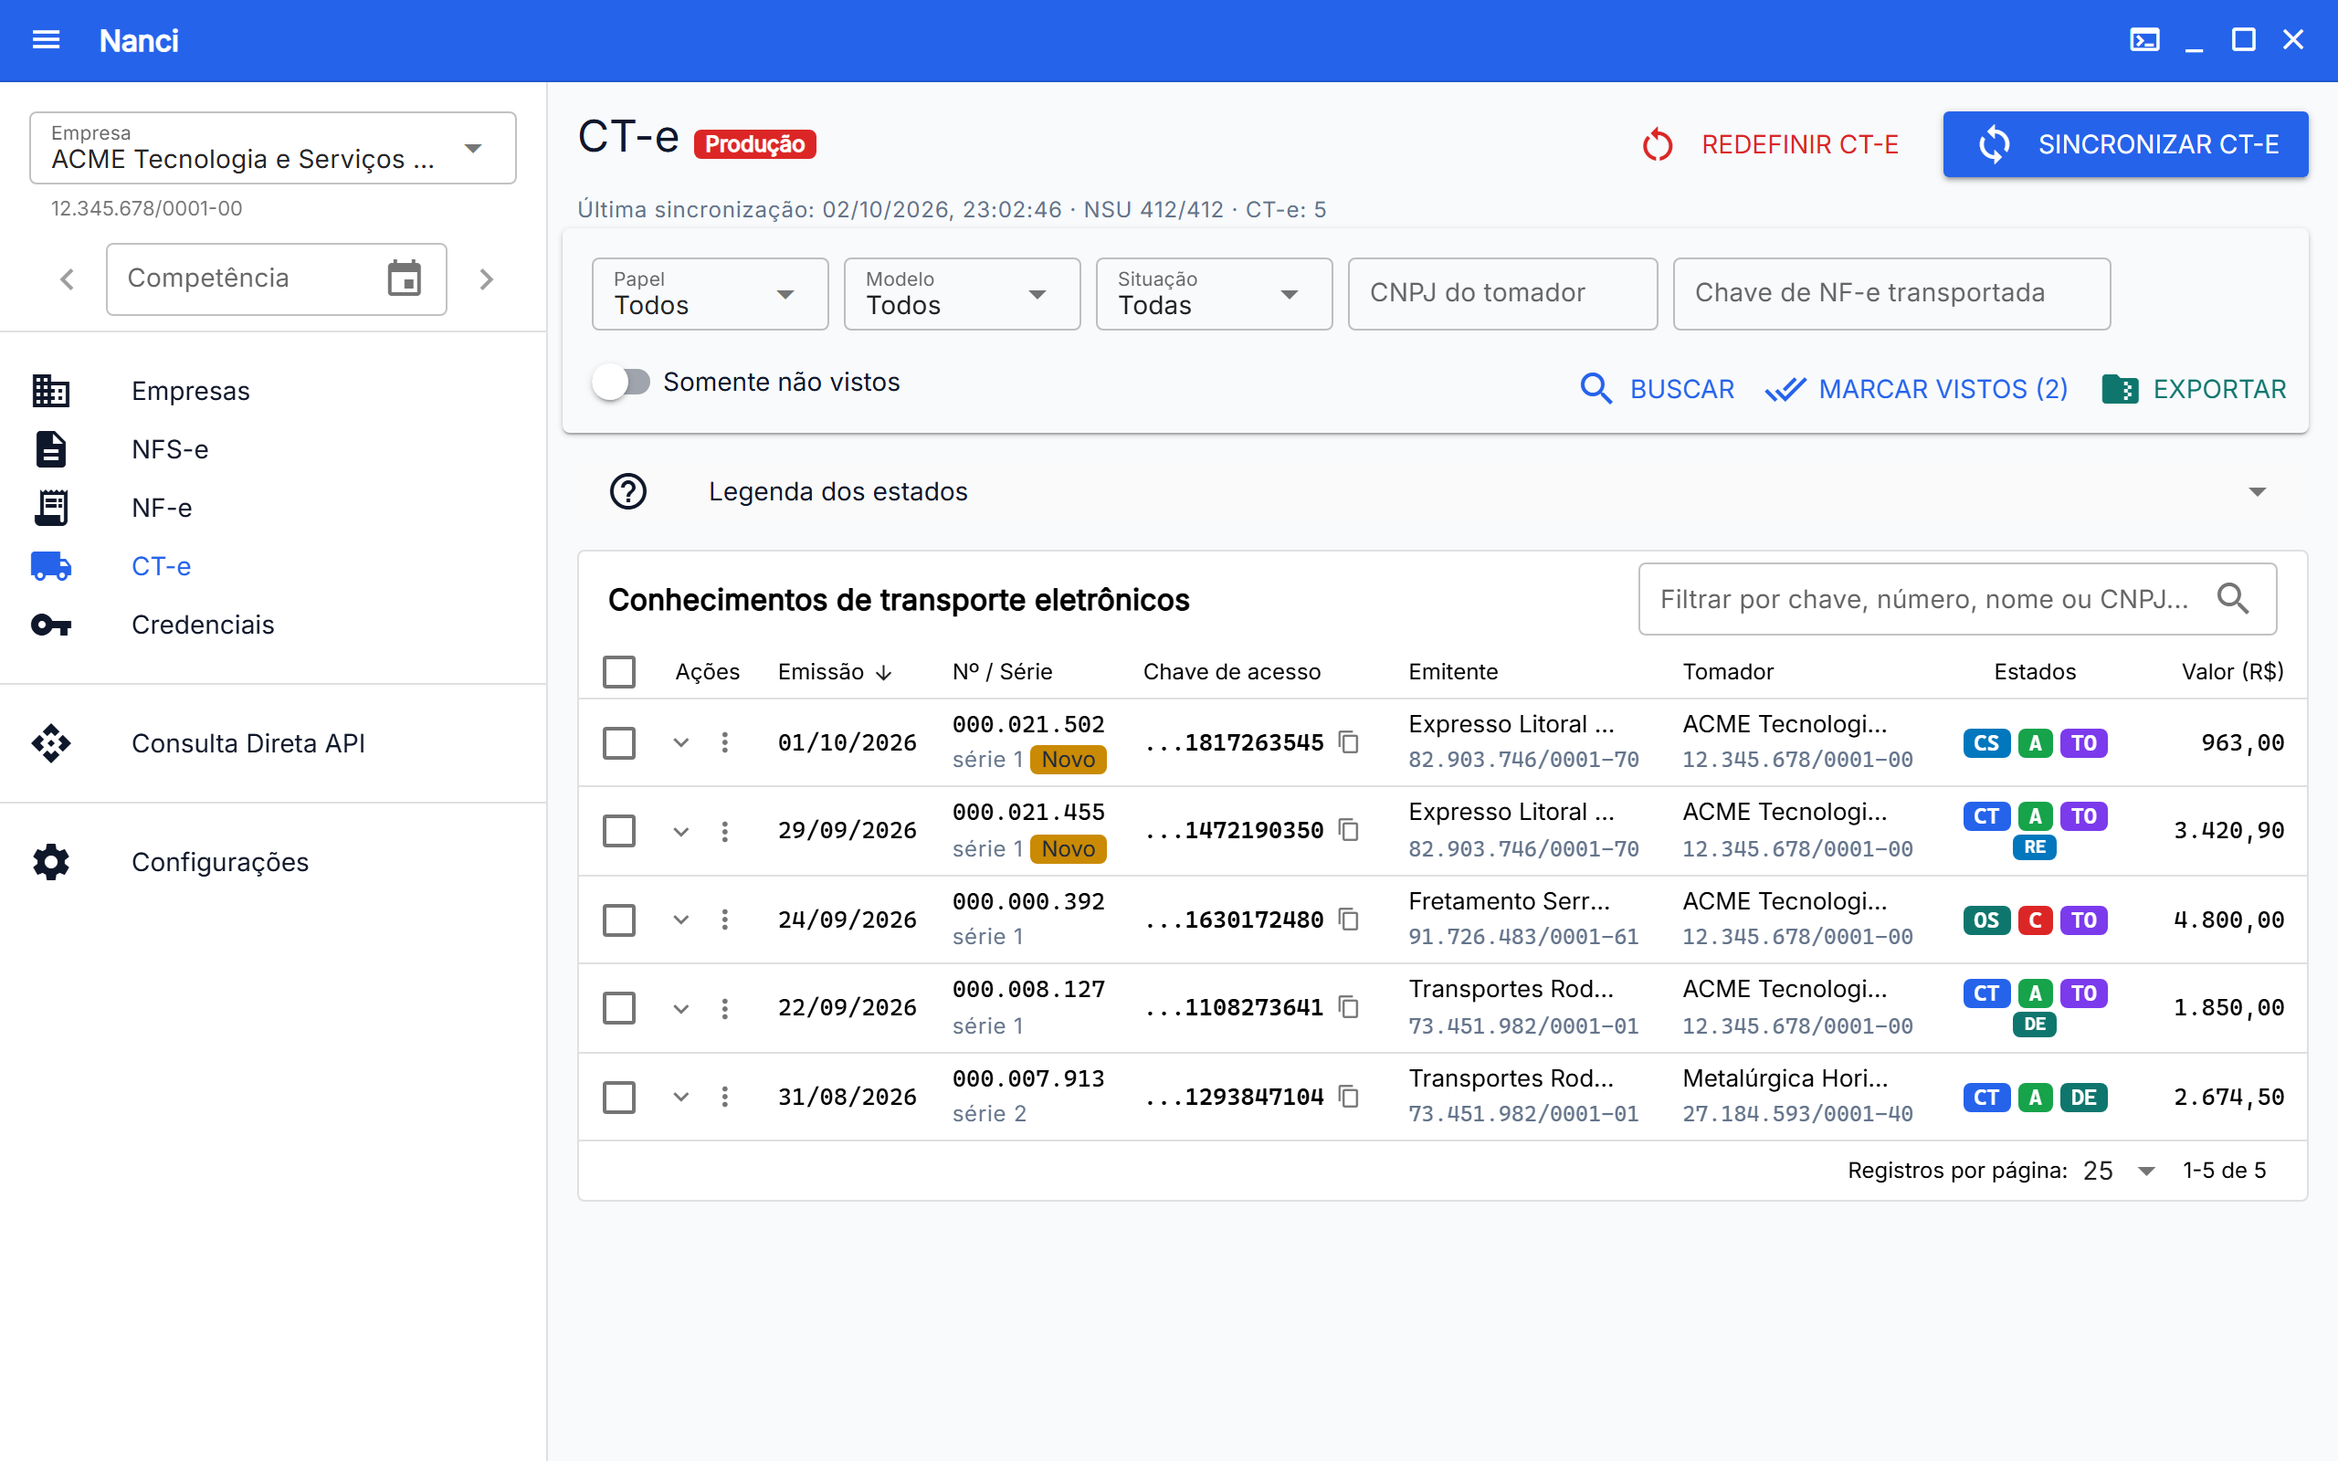
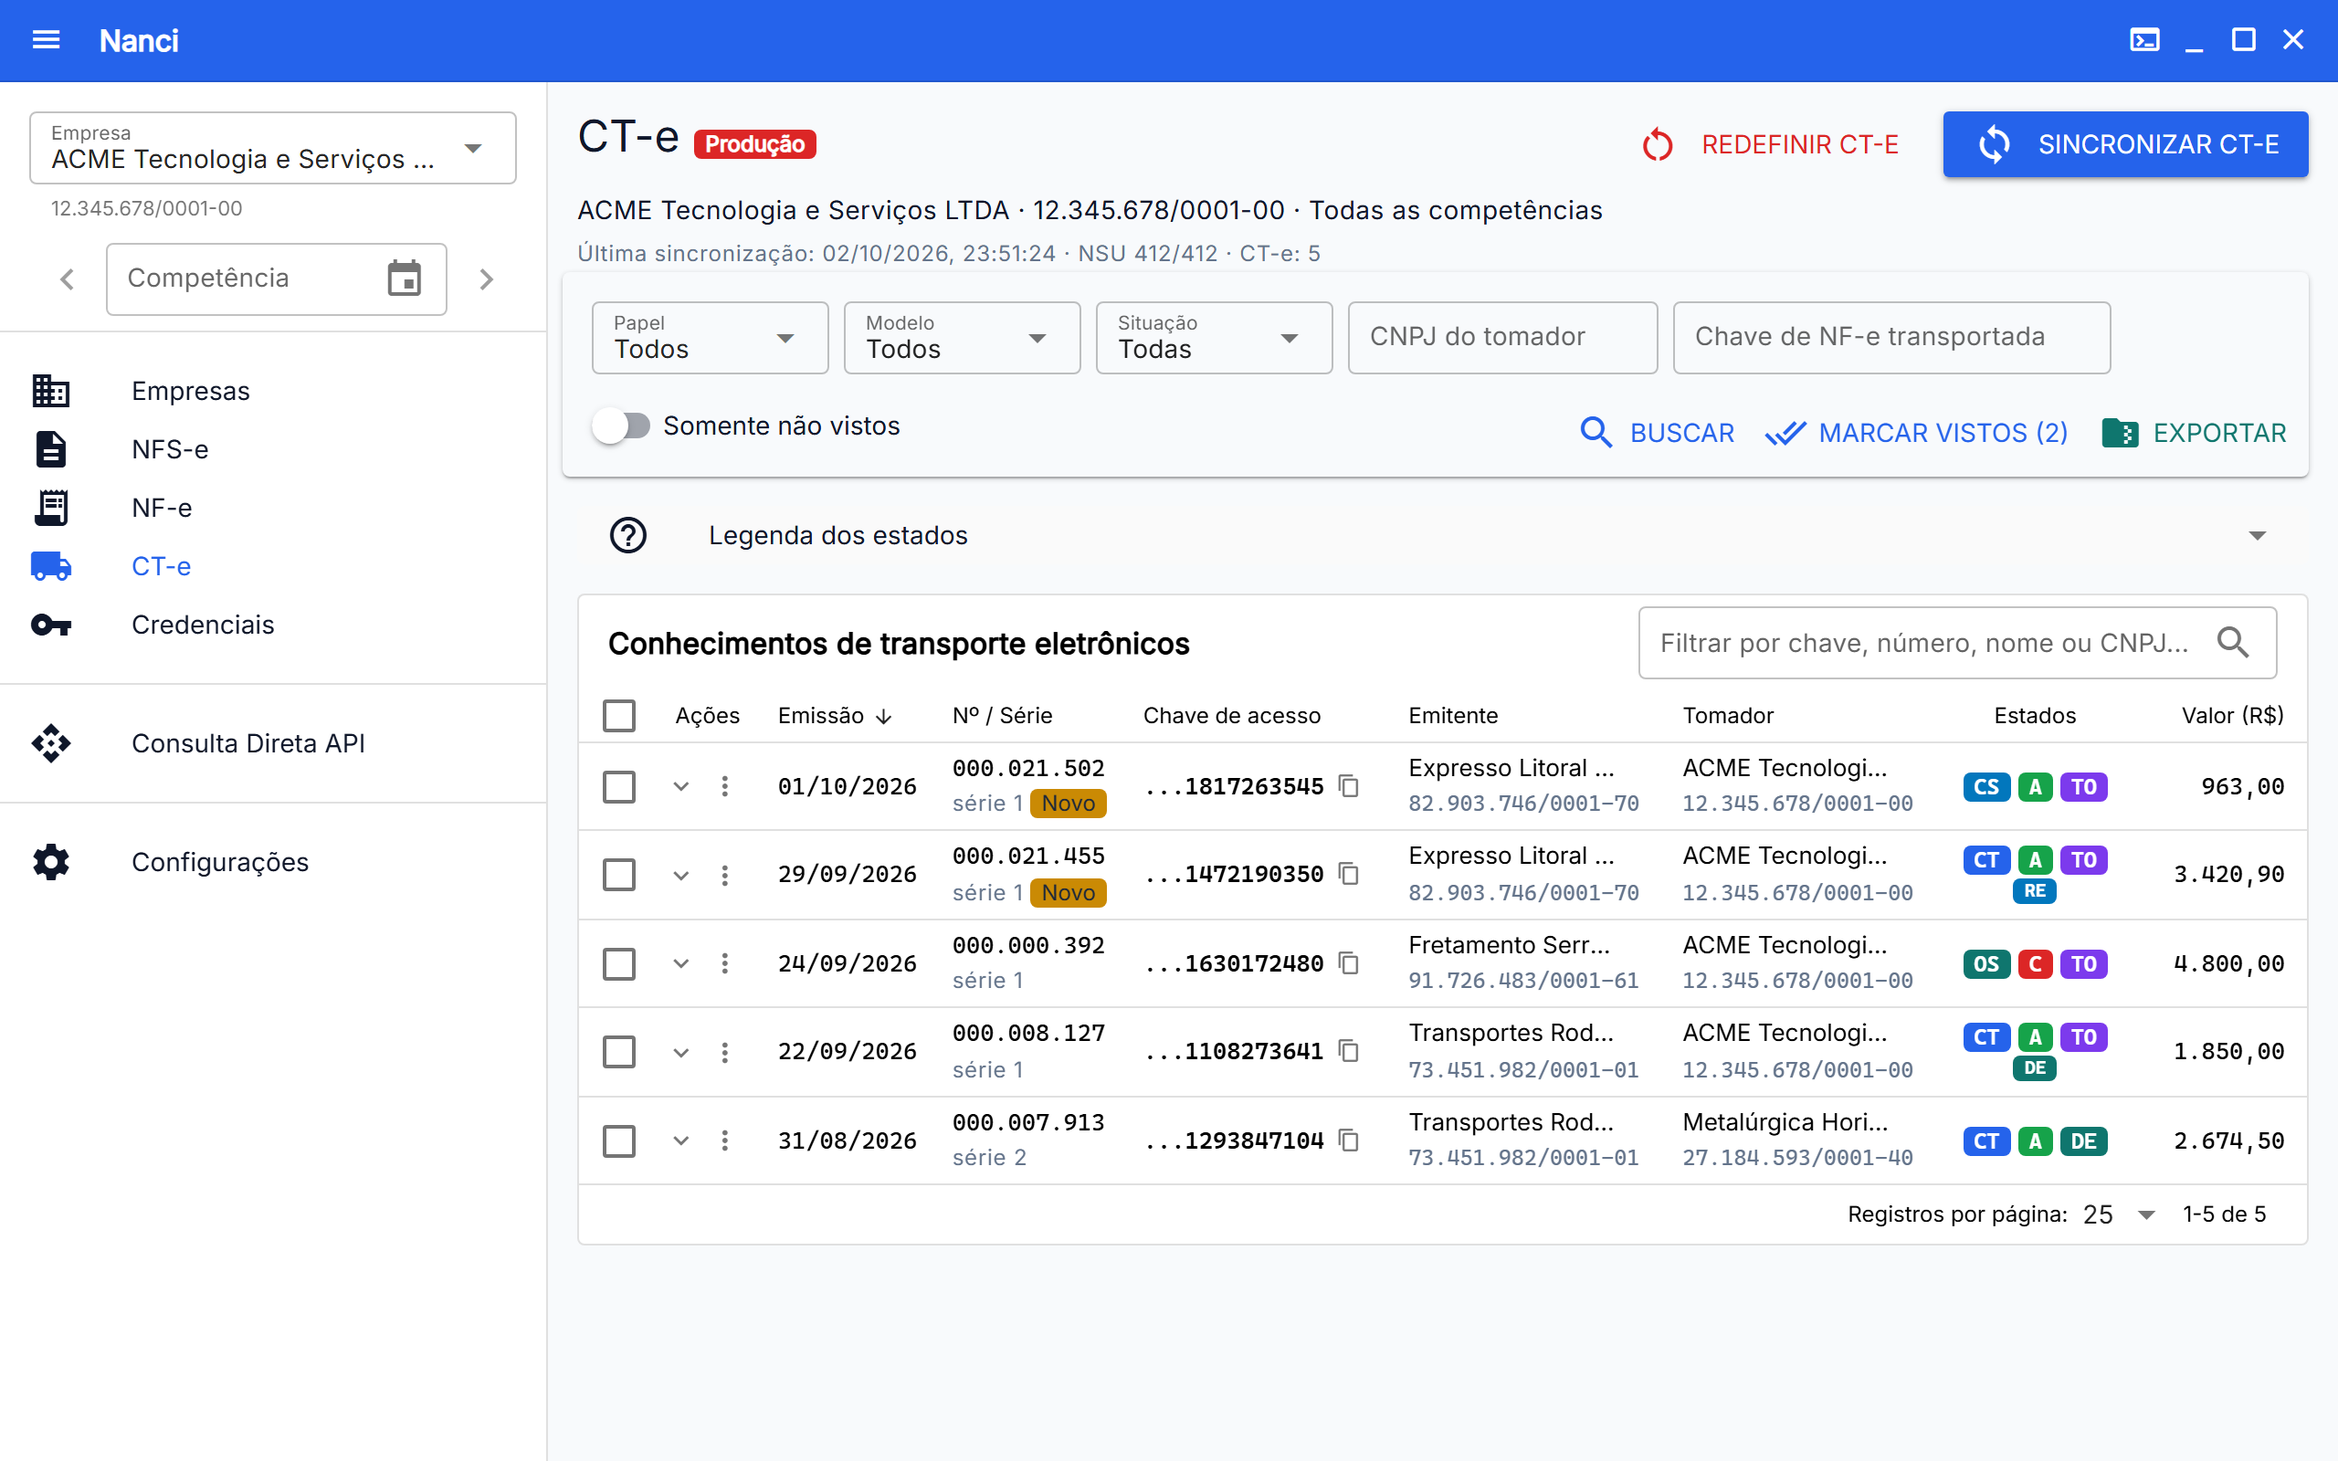
frontend: show the workspace company and competência in the document header
The NFS-e, NF-e and CT-e pages now name the company, its CNPJ and the
competência they list in a line under the title, or "Todas as
competências" when the competência is clear. The line is always shown,
since the drawer where the workspace is picked hides below 1024px.
useWorkspaceList builds it from the workspace store with the new
workspaceContextLine formatter. The captures of the three pages are
regenerated with the line, and the NF-e and CT-e docs mention it.

Changed region(s): [[0.25, 0.375, 0.9688, 0.8438], [0.25, 0.125, 0.6875, 0.375], [0.5625, 0.1875, 0.9688, 0.3125]]

diff --git a/internal/desktop/frontend/src/components/DocumentPageHeader.vue b/internal/desktop/frontend/src/components/DocumentPageHeader.vue
@@ -29,6 +29,10 @@
       />
     </div>
 
+    <!-- The workspace is picked in the left drawer, which Quasar hides below
+         the md breakpoint, so the page always names it here. -->
+    <div v-if="contextLine" class="text-body2 q-mb-xs">{{ contextLine }}</div>
+
     <div v-if="statusLine" class="text-caption text-app-muted q-mb-sm">{{ statusLine }}</div>
 
     <q-banner
@@ -51,13 +55,14 @@ import { useQuasar } from 'quasar'
 import { badgeProps } from '@/utils/sefazDisplay'
 
 // DocumentPageHeader is the top of a document page: the title with the
-// ambiente badge, the sync and reset buttons, the status line and the banner
-// that explains a blocked sync. ambiente is null until the company is known;
+// ambiente badge, the sync and reset buttons, the workspace company and
+// competência, the status line and the banner that explains a blocked sync. ambiente is null until the company is known;
 // resetTitle explains what the reset does.
 withDefaults(
   defineProps<{
     title: string
     ambiente: { label: string; color: string } | null
+    contextLine?: string
     statusLine?: string
     blockedText?: string
     syncing: boolean
@@ -67,6 +72,7 @@ withDefaults(
     resetDisabled: boolean
   }>(),
   {
+    contextLine: '',
     statusLine: '',
     blockedText: '',
   }

diff --git a/internal/desktop/frontend/src/composables/useWorkspaceList.test.ts b/internal/desktop/frontend/src/composables/useWorkspaceList.test.ts
@@ -105,6 +105,16 @@ describe('useWorkspaceList', () => {
     expect(reload).toHaveBeenCalledWith({ company: true })
   })
 
+  it('names the workspace company and competência', async () => {
+    const { list } = mount()
+    expect(list.contextLine.value).toBe('Empresa Um · 11.111.111/0001-11 · Todas as competências')
+
+    useWorkspaceStore().cnpj = dois.CNPJ
+    useWorkspaceStore().competence = '2026-05'
+    await nextTick()
+    expect(list.contextLine.value).toBe('Empresa Dois · 22.222.222/0001-22 · Competência 05/2026')
+  })
+
   it('does not reload without a company', async () => {
     vi.mocked(desktopClient.listCompanies).mockResolvedValue([])
     await useWorkspaceStore().loadCompanies()
@@ -113,6 +123,7 @@ describe('useWorkspaceList', () => {
 
     expect(reload).not.toHaveBeenCalled()
     expect(list.noCompanyLabel.value).toBe('Nenhuma empresa cadastrada. Cadastre uma em Empresas.')
+    expect(list.contextLine.value).toBe('')
   })
 
   it('says why there is no company', async () => {

diff --git a/internal/desktop/frontend/src/utils/formatters.ts b/internal/desktop/frontend/src/utils/formatters.ts
@@ -108,6 +108,20 @@ export function formatCompetence(value: string | null | undefined): string {
   return match ? `${match[2]}/${match[1]}` : (value ?? '')
 }
 
+// workspaceContextLine names the workspace company and competência a
+// document page lists, as "Empresa · CNPJ · Competência MM/YYYY". It is ''
+// without a company, and an empty competência reads "Todas as competências".
+export function workspaceContextLine(
+  company: { Name: string; CNPJ: string } | null,
+  competence: string
+): string {
+  if (!company) return ''
+  const period = competence
+    ? `Competência ${formatCompetence(competence)}`
+    : 'Todas as competências'
+  return `${company.Name} · ${formatCpfCnpj(company.CNPJ)} · ${period}`
+}
+
 // formatTime prints a local HH:MM time, or fallback for empty/invalid values.
 export function formatTime(value: string | Date | null | undefined, fallback = '') {
   return parseDate(value)?.toLocaleTimeString('pt-BR', { hour: '2-digit', minute: '2-digit' }) ?? fallback

diff --git a/internal/desktop/frontend/src/utils/formatters.test.ts b/internal/desktop/frontend/src/utils/formatters.test.ts
@@ -12,6 +12,7 @@ import {
   normalizeText,
   parseDate,
   withViewed,
+  workspaceContextLine,
 } from './formatters'
 
 describe('formatters', () => {
@@ -108,6 +109,17 @@ describe('formatters', () => {
     expect(formatCompetence('')).toBe('')
     expect(formatCompetence(null)).toBe('')
     expect(formatCompetence('2026')).toBe('2026')
+  })
+
+  it('names the workspace company and competência', () => {
+    const company = { Name: 'Empresa Mock', CNPJ: '70860312000150' }
+    expect(workspaceContextLine(company, '2026-09')).toBe(
+      'Empresa Mock · 70.860.312/0001-50 · Competência 09/2026'
+    )
+    expect(workspaceContextLine(company, '')).toBe(
+      'Empresa Mock · 70.860.312/0001-50 · Todas as competências'
+    )
+    expect(workspaceContextLine(null, '2026-09')).toBe('')
   })
 
   it('formats local HH:MM times', () => {

diff --git a/internal/desktop/frontend/src/composables/useWorkspaceList.ts b/internal/desktop/frontend/src/composables/useWorkspaceList.ts
@@ -1,6 +1,7 @@
 import { computed, watch } from 'vue'
 import { storeToRefs } from 'pinia'
 import { sameWorkspaceKey, useWorkspaceStore, type WorkspaceKey } from '@/stores/workspace'
+import { workspaceContextLine } from '@/utils/formatters'
 
 export type WorkspaceChange = {
   // company is true when the company changed since the rows were loaded, or
@@ -52,5 +53,10 @@ export function useWorkspaceList(options: WorkspaceListOptions) {
     return 'Nenhuma empresa cadastrada. Cadastre uma em Empresas.'
   })
 
-  return { cnpj, loaded, noCompanyLabel }
+  // contextLine names the company and competência under the page title.
+  const contextLine = computed(() =>
+    workspaceContextLine(workspace.selectedCompany, workspace.competence)
+  )
+
+  return { cnpj, loaded, noCompanyLabel, contextLine }
 }

diff --git a/internal/desktop/frontend/src/components/DocumentPageHeader.test.ts b/internal/desktop/frontend/src/components/DocumentPageHeader.test.ts
@@ -79,6 +79,20 @@ describe('DocumentPageHeader', () => {
     expect(button(wrapper, 'Redefinir NF-e').attributes('disabled')).toBeDefined()
   })
 
+  it('names the workspace under the title when given', () => {
+    const wrapper = mountHeader({ contextLine: 'ACME · 12.345.678/0001-00 · Competência 09/2026' })
+
+    expect(wrapper.find('.text-body2').text()).toBe(
+      'ACME · 12.345.678/0001-00 · Competência 09/2026'
+    )
+  })
+
+  it('leaves the workspace line out when it is empty', () => {
+    const wrapper = mountHeader()
+
+    expect(wrapper.find('.text-body2').exists()).toBe(false)
+  })
+
   it('shows the status line and the block banner', () => {
     const wrapper = mountHeader({
       statusLine: 'Última sincronização: nunca · NSU 0',

diff --git a/internal/desktop/frontend/src/pages/CTePage.vue b/internal/desktop/frontend/src/pages/CTePage.vue
@@ -3,6 +3,7 @@
     <DocumentPageHeader
       title="CT-e"
       :ambiente="ambiente"
+      :context-line="contextLine"
       :status-line="statusLine"
       :blocked-text="blockedText"
       :syncing="isSyncing"
@@ -296,7 +297,7 @@ function valoresItems(row: CTeRow): DetailItem[] {
 
 // The page lists the workspace company and competência. A new company also
 // reloads the status; a new competência only the list.
-const { cnpj, noCompanyLabel } = useWorkspaceList({
+const { cnpj, noCompanyLabel, contextLine } = useWorkspaceList({
   rowsFor: () => cte.rowsFor.value,
   clear: ({ company }) => {
     cte.clearRows()

diff --git a/internal/desktop/frontend/src/pages/NFePage.vue b/internal/desktop/frontend/src/pages/NFePage.vue
@@ -3,6 +3,7 @@
     <DocumentPageHeader
       title="NF-e"
       :ambiente="ambiente"
+      :context-line="contextLine"
       :status-line="statusLine"
       :blocked-text="blockedText"
       :syncing="isSyncing"
@@ -383,7 +384,7 @@ function valoresItems(row: NFeRow): DetailItem[] {
 
 // The page lists the workspace company and competência. A new company also
 // reloads the status; a new competência only the list.
-const { cnpj, noCompanyLabel } = useWorkspaceList({
+const { cnpj, noCompanyLabel, contextLine } = useWorkspaceList({
   rowsFor: () => nfe.rowsFor.value,
   clear: ({ company }) => {
     nfe.clearRows()

diff --git a/internal/desktop/frontend/src/pages/DocumentsPage.vue b/internal/desktop/frontend/src/pages/DocumentsPage.vue
@@ -3,6 +3,7 @@
     <DocumentPageHeader
       title="NFS-e"
       :ambiente="ambiente"
+      :context-line="contextLine"
       :status-line="statusLine"
       :syncing="isSyncing"
       :sync-disabled="!cnpj || isResetting"
@@ -233,7 +234,7 @@ function retencoesItems(row: DocumentRow): DetailItem[] {
 
 // The page lists the workspace company and competência, and searches again
 // when either changes.
-const { cnpj, noCompanyLabel } = useWorkspaceList({
+const { cnpj, noCompanyLabel, contextLine } = useWorkspaceList({
   rowsFor: () => nfse.rowsFor.value,
   clear: () => nfse.clearRows(),
   reload: () => search(),

diff --git a/internal/desktop/frontend/src/pages/DocumentsPage.test.ts b/internal/desktop/frontend/src/pages/DocumentsPage.test.ts
@@ -213,6 +213,9 @@ describe('DocumentsPage', () => {
       label: 'Produção',
       color: 'negative',
     })
+    expect(wrapper.getComponent({ name: 'DocumentPageHeader' }).props('contextLine')).toBe(
+      'ACME · 12.345.678/0001-00 · Todas as competências'
+    )
     expect(wrapper.text()).toContain('Última sincronização: nunca · NSU 25')
   })
 

diff --git a/docs/NFE_SEFAZ.md b/docs/NFE_SEFAZ.md
@@ -157,7 +157,7 @@ nanci.exe nfe reset --cnpj 12345678000199 --confirmar
 
 ## Aplicativo desktop
 
-O menu lateral ganha a entrada "NF-e", com as abas **Notas** e **Pendências** e os botões "Sincronizar NF-e" e "Redefinir NF-e"; este pede confirmação e faz o mesmo que `nfe reset --confirmar`. Na aba Notas é possível selecionar notas e usar "Registrar ciência", que abre um diálogo com as notas elegíveis, as ignoradas com o motivo e uma caixa de reconhecimento obrigatória antes do envio. As manifestações conclusivas são feitas nota a nota por um diálogo que pede o tipo, a justificativa quando exigida e uma revisão final. Enquanto a origem estiver bloqueada (656, fila em dia ou limite por hora), um aviso mostra o horário da próxima consulta permitida e o botão de sincronizar fica desabilitado. O pedido de senha mostra a finalidade (por exemplo, "Sincronização NF-e" ou "Assinatura: Ciência da Operação (12 notas)").
+O menu lateral ganha a entrada "NF-e", com as abas **Notas** e **Pendências** e os botões "Sincronizar NF-e" e "Redefinir NF-e"; este pede confirmação e faz o mesmo que `nfe reset --confirmar`. Sob o título, uma linha mostra a empresa, o CNPJ e a competência escolhidos no menu lateral, ou "Todas as competências", e continua visível quando a janela estreita esconde o menu. Na aba Notas é possível selecionar notas e usar "Registrar ciência", que abre um diálogo com as notas elegíveis, as ignoradas com o motivo e uma caixa de reconhecimento obrigatória antes do envio. As manifestações conclusivas são feitas nota a nota por um diálogo que pede o tipo, a justificativa quando exigida e uma revisão final. Enquanto a origem estiver bloqueada (656, fila em dia ou limite por hora), um aviso mostra o horário da próxima consulta permitida e o botão de sincronizar fica desabilitado. O pedido de senha mostra a finalidade (por exemplo, "Sincronização NF-e" ou "Assinatura: Ciência da Operação (12 notas)").
 
 ## Modelo de dados
 

diff --git a/docs/CTE_SEFAZ.md b/docs/CTE_SEFAZ.md
@@ -165,7 +165,7 @@ nanci.exe cte reset --cnpj 12345678000199 --confirmar
 
 ## Aplicativo desktop
 
-O menu lateral ganha a entrada "CT-e", logo abaixo de "NF-e". A página lista a empresa e a competência escolhidas no menu lateral, numa única tabela, sem aba de pendências, com filtros de papel, modelo, situação, tomador e chave de NF-e, e os botões "Sincronizar CT-e", "Exportar" e "Redefinir CT-e"; este pede confirmação e faz o mesmo que `cte reset --confirmar`. Os eventos de cada documento abrem num diálogo. Enquanto a origem estiver bloqueada (656, fila em dia ou limite por hora), um aviso mostra o horário da próxima consulta permitida e o botão de sincronizar fica desabilitado. O pedido de senha mostra a finalidade "Sincronização CT-e", o que separa os pedidos quando NFS-e, NF-e e CT-e sincronizam ao mesmo tempo.
+O menu lateral ganha a entrada "CT-e", logo abaixo de "NF-e". A página lista a empresa e a competência escolhidas no menu lateral, numa única tabela, sem aba de pendências, com filtros de papel, modelo, situação, tomador e chave de NF-e, e os botões "Sincronizar CT-e", "Exportar" e "Redefinir CT-e"; este pede confirmação e faz o mesmo que `cte reset --confirmar`. Sob o título, uma linha mostra a empresa, o CNPJ e a competência escolhidos no menu lateral, ou "Todas as competências", e continua visível quando a janela estreita esconde o menu. Os eventos de cada documento abrem num diálogo. Enquanto a origem estiver bloqueada (656, fila em dia ou limite por hora), um aviso mostra o horário da próxima consulta permitida e o botão de sincronizar fica desabilitado. O pedido de senha mostra a finalidade "Sincronização CT-e", o que separa os pedidos quando NFS-e, NF-e e CT-e sincronizam ao mesmo tempo.
 
 ## Modelo de dados
 
